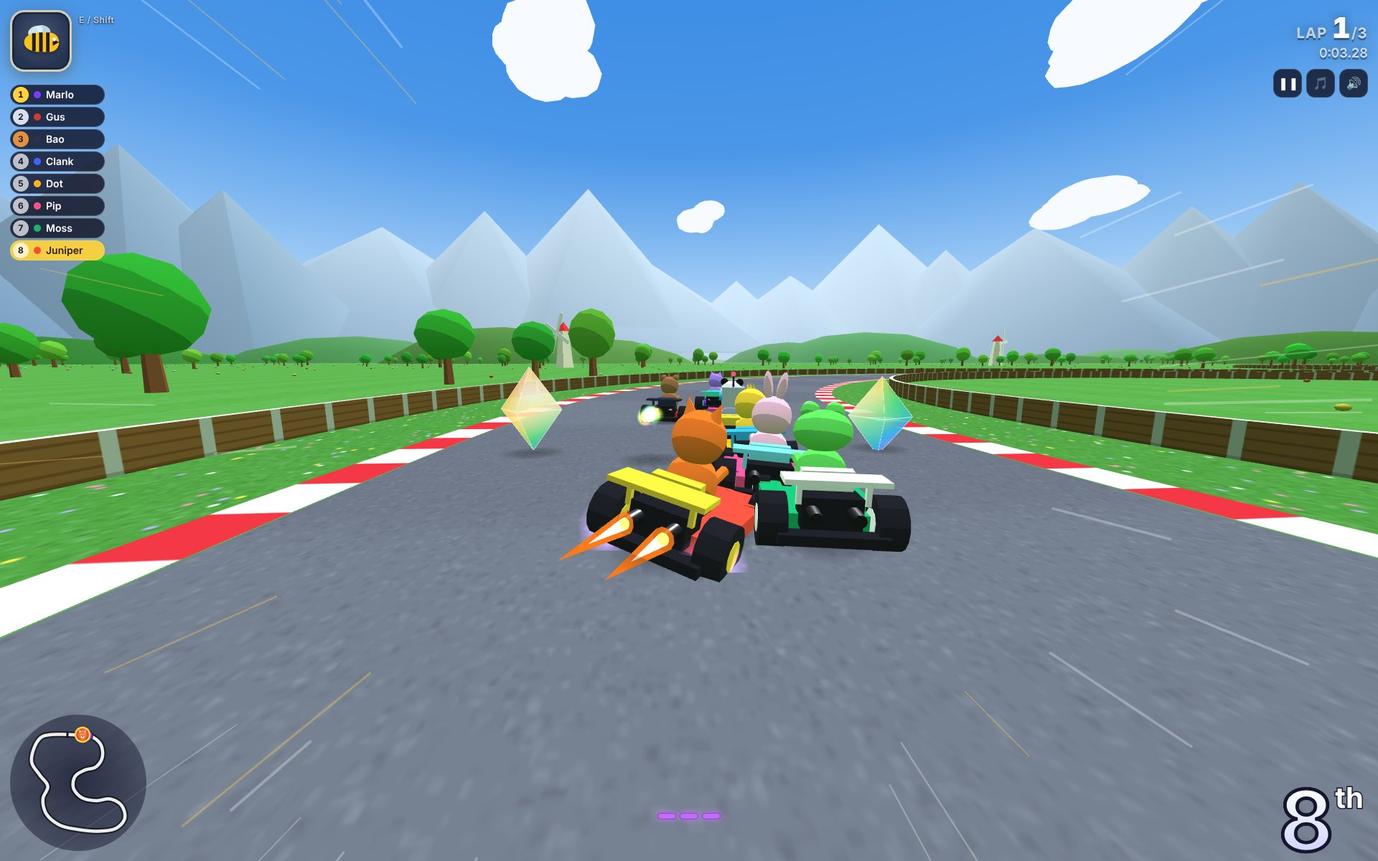
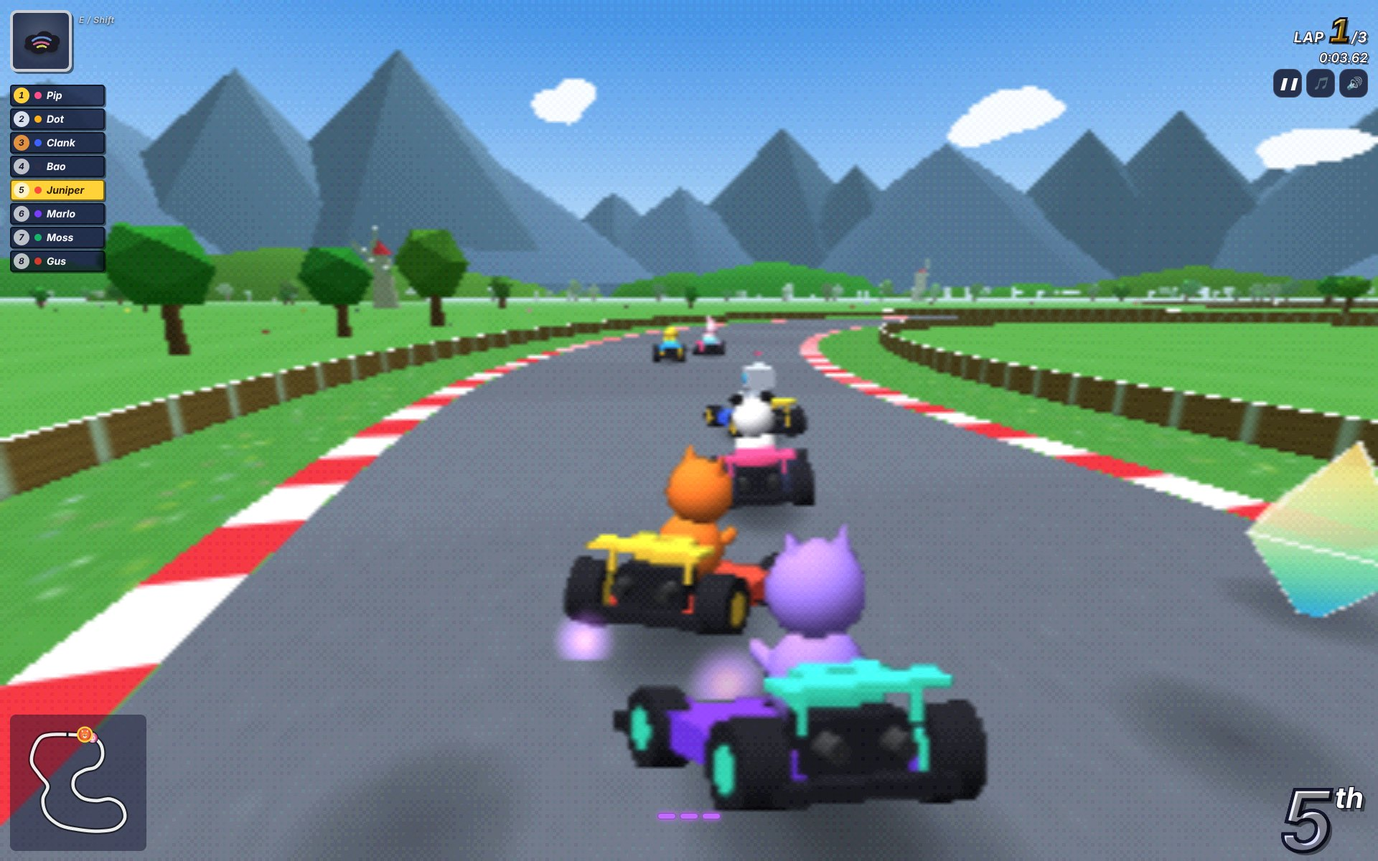
Kartwheel: N64-style graphics
The game now looks like a 1996 console kart racer by default:
- The scene renders at 240 lines into a low-res target, then a final pass
  stretches it to the screen with bilinear blur, a slight horizontal smear
  and 16-bit colour (5 bits a channel) with an ordered dither.
- Karts and racers are pre-rendered sprites: each racer is baked once from
  16 directions with the wheels turned left, straight and right, and the
  frame is picked from the camera angle every frame.
- Flat vertex (Lambert) lighting instead of cel shading, lower-poly trees,
  hills and planets, textures shrunk to a quarter so they smear like N64
  ones, and thick fog that eats the distance (the backdrop stays clear).
- A chunkier, italic HUD with hard drop shadows.
- Menu setting to switch back to the modern full-resolution 3D look
  (saved per browser).
- The ground plane sits lower so the low-res depth buffer never lets it
  show through the road.

Claude-Session: https://claude.ai/code/session_01MQsWw5zq1GURH7SpDxZTZH

diff --git a/e63334287a3deaa3/kartwheel/index.html b/e63334287a3deaa3/kartwheel/index.html
@@ -109,6 +109,17 @@ body.touch #board li:nth-child(n+5):not(.me){display:none}
   #itemKey{display:none}
 }
 
+/* N64 look: a chunkier, flatter HUD to sit over the 240-line picture */
+body.retro #hud{font-style:italic}
+body.retro #board li{border-radius:4px;background:rgba(10,12,40,.72);border:2px solid rgba(0,0,0,.55);box-shadow:2px 2px 0 rgba(0,0,0,.45);font-weight:700}
+body.retro #board li.me{background:#ffd23a}
+body.retro .slot{border-radius:10px;border-width:4px;box-shadow:3px 3px 0 rgba(0,0,0,.5)}
+body.retro #lap,body.retro #time{-webkit-text-stroke:2px #14162e;paint-order:stroke fill;text-shadow:3px 3px 0 rgba(0,0,0,.5);color:#fff}
+body.retro #lap b{font-size:46px;background:linear-gradient(#fff6b0,#ffc21a 60%,#ff8a00);-webkit-background-clip:text;background-clip:text;color:transparent;-webkit-text-stroke:3px #14162e}
+body.retro #placeN,body.retro #placeS,body.retro #count,body.retro #banner{font-style:italic;text-shadow:5px 5px 0 rgba(0,0,0,.45)}
+body.retro #mini{border-radius:8px;background:rgba(10,12,40,.45)}
+body.retro #toasts div{border-radius:4px;border:2px solid rgba(0,0,0,.5);box-shadow:2px 2px 0 rgba(0,0,0,.45)}
+
 /* ---------- Menus ---------- */
 .screen{position:absolute;inset:0;display:flex;align-items:center;justify-content:flex-start;padding:24px clamp(16px,5vw,64px);overflow:auto;background:linear-gradient(90deg,rgba(11,13,30,.9) 0%,rgba(11,13,30,.5) 50%,rgba(11,13,30,0) 76%)}
 .card{width:min(460px,100%);background:var(--panel);border:1px solid var(--line);border-radius:22px;padding:22px 22px 18px;box-shadow:0 30px 80px rgba(0,0,0,.45);margin:auto 0}
@@ -252,6 +263,8 @@ hr.sep{border:0;border-top:1px solid var(--line);margin:16px 0 4px}
         <div><label class="f">Track (single race)</label><div class="seg" id="trackSeg" role="radiogroup" aria-label="Track"></div></div>
         <div><label class="f">Engine</label><div class="seg" id="ccSeg" role="radiogroup" aria-label="Engine class"><button type="button" data-v="50">50cc</button><button type="button" data-v="100">100cc</button><button type="button" data-v="150">150cc</button></div></div>
       </div>
+      <label class="f">Graphics</label>
+      <div class="seg" id="gfxSeg" role="radiogroup" aria-label="Graphics"><button type="button" data-v="n64">N64 (240p, sprites)</button><button type="button" data-v="hd">Modern</button></div>
       <div class="row"><button class="cta" id="gp" type="button">🏆 Grand Prix</button><button class="ghost" id="single" type="button">Single race</button></div>
       <hr class="sep">
       <label class="f">Online</label>
@@ -346,6 +359,9 @@ const store={
   get(k,d){try{const v=localStorage.getItem('kw:'+k);return v==null?d:JSON.parse(v)}catch(e){return d}},
   set(k,v){try{localStorage.setItem('kw:'+k,JSON.stringify(v))}catch(e){}}
 };
+// Graphics: 'n64' (the default) renders at 240 lines with 16-bit colour, vertex lighting, chunky textures,
+// fog and pre-rendered kart sprites, like a 1996 console racer. 'hd' is the clean modern look.
+let retro=store.get('gfx','n64')!=='hd';
 function mulberry(a){return function(){a|=0;a=a+0x6D2B79F5|0;let t=Math.imul(a^a>>>15,1|a);t=t+Math.imul(t^t>>>7,61|t)^t;return((t^t>>>14)>>>0)/4294967296}}
 function strHash(s){let h=2166136261;for(let i=0;i<s.length;i++){h^=s.charCodeAt(i);h=Math.imul(h,16777619)}return h>>>0}
 function cleanName(s){return String(s||'').replace(/[\u0000-\u001f<>]/g,'').trim().slice(0,16)}
@@ -1060,20 +1076,47 @@ const renderer=new THREE.WebGLRenderer({canvas:cv,antialias:!touchUI,powerPrefer
 renderer.setPixelRatio(Math.min(devicePixelRatio||1,touchUI?1.5:1.75));
 // colours are authored as seen on screen, so no colour-space conversion or tone mapping: keeps the cartoon palette bright
 const scene=new THREE.Scene();
-const camera=new THREE.PerspectiveCamera(70,1,.2,9000);
+const camera=new THREE.PerspectiveCamera(70,1,.3,7000);
 const hemi=new THREE.HemisphereLight(0xffffff,0x445533,.85);
 const sun=new THREE.DirectionalLight(0xffffff,1.0);
 scene.add(hemi,sun,sun.target);
 let W=1,H=1,shake=0;
+// N64 output: draw the scene at 240 lines, then stretch it to the screen with bilinear blur, 16-bit colour
+// (5 bits a channel) with an ordered dither, and a slight horizontal smear like the console's video output.
+const LOW_H=240;
+const post={rt:new THREE.WebGLRenderTarget(4,4,{minFilter:THREE.LinearFilter,magFilter:THREE.LinearFilter,depthBuffer:true,stencilBuffer:true}), // stencil gives a 24-bit depth buffer: 16 bits makes the road flicker into the grass
+ scene:new THREE.Scene(),cam:new THREE.OrthographicCamera(-1,1,1,-1,0,1)};
+post.mat=new THREE.ShaderMaterial({uniforms:{tex:{value:post.rt.texture},res:{value:new THREE.Vector2(4,4)}},depthTest:false,depthWrite:false,
+  vertexShader:'varying vec2 vUv;void main(){vUv=uv;gl_Position=vec4(position.xy,0.,1.);}',
+  fragmentShader:[
+    'uniform sampler2D tex;uniform vec2 res;varying vec2 vUv;',
+    'float b2(vec2 p){return 2.*p.x+3.*p.y-4.*p.x*p.y;}',
+    'float bayer(vec2 p){vec2 a=mod(p,2.),b=mod(floor(p/2.),2.);return (4.*b2(a)+b2(b))/16.;}',
+    'void main(){',
+    ' vec2 o=vec2(.5/res.x,0.);',
+    ' vec3 c=texture2D(tex,vUv).rgb*.5+texture2D(tex,vUv+o).rgb*.25+texture2D(tex,vUv-o).rgb*.25;',
+    ' float d=bayer(floor(vUv*res))-.47;',
+    ' c=floor(c*31.+d+.5)/31.;',
+    ' gl_FragColor=vec4(clamp(c,0.,1.),1.);',
+    '}'].join('\n')});
+post.scene.add(new THREE.Mesh(new THREE.PlaneGeometry(2,2),post.mat));
+function sizePost(){const h=LOW_H,w=Math.max(4,Math.round(h*W/H));post.rt.setSize(w,h);post.mat.uniforms.res.value.set(w,h)}
+function renderFrame(){
+  if(!retro){renderer.render(scene,camera);return}
+  renderer.setRenderTarget(post.rt);renderer.render(scene,camera);renderer.setRenderTarget(null);renderer.render(post.scene,post.cam);
+}
 function resize(){
   const r=document.body.getBoundingClientRect();W=Math.max(1,r.width|0);H=Math.max(1,r.height|0);
-  renderer.setSize(W,H,false);camera.aspect=W/H;camera.updateProjectionMatrix();
+  renderer.setSize(W,H,false);camera.aspect=W/H;camera.updateProjectionMatrix();sizePost();
   const d=Math.min(devicePixelRatio||1,2);ov.width=W*d;ov.height=H*d;ox.setTransform(d,0,0,d,0,0);
 }
 addEventListener('resize',resize);
 
-function canvasTex(w,h,draw,rep){
-  const c=document.createElement('canvas');c.width=w;c.height=h;draw(c.getContext('2d'),w,h);
+function canvasTex(w,h,draw,rep,div){
+  let c=document.createElement('canvas');c.width=w;c.height=h;draw(c.getContext('2d'),w,h);
+  // N64 look: textures were tiny and smeared by bilinear filtering, so shrink big ones to a quarter
+  const k=div||(retro&&w>=128&&h>=16?4:1);
+  if(k>1){const d=document.createElement('canvas');d.width=Math.max(8,w/k|0);d.height=Math.max(8,h/k|0);const g2=d.getContext('2d');g2.imageSmoothingQuality='high';g2.drawImage(c,0,0,d.width,d.height);c=d}
   const t=new THREE.CanvasTexture(c);t.wrapS=t.wrapT=THREE.RepeatWrapping;
   t.anisotropy=Math.min(8,renderer.capabilities.getMaxAnisotropy());
   if(rep)t.repeat.set(rep[0],rep[1]);return t;
@@ -1089,7 +1132,8 @@ const STAR_TEX=canvasTex(64,64,(g)=>{g.translate(32,32);g.fillStyle='#ffe14a';g.
 // a 3-step light ramp gives the karts and racers a cartoon look
 const TOON=(()=>{const d=new Uint8Array([90,90,90,255,170,170,170,255,255,255,255,255]);const t=new THREE.DataTexture(d,3,1,THREE.RGBAFormat);t.minFilter=t.magFilter=THREE.NearestFilter;t.generateMipmaps=false;t.needsUpdate=true;return t})();
 const toonMats={};
-function toon(col,emi){const k=col+'|'+(emi||'');if(!toonMats[k]){const m=new THREE.MeshToonMaterial({color:col,gradientMap:TOON});if(emi){m.emissive=new THREE.Color(emi)}m.shared=true;toonMats[k]=m}return toonMats[k]}
+const instMat=()=>retro?new THREE.MeshLambertMaterial({color:0xffffff}):new THREE.MeshToonMaterial({color:0xffffff,gradientMap:TOON});
+function toon(col,emi){const k=(retro?'L':'T')+col+'|'+(emi||'');if(!toonMats[k]){const m=retro?new THREE.MeshLambertMaterial({color:col}):new THREE.MeshToonMaterial({color:col,gradientMap:TOON});if(emi){m.emissive=new THREE.Color(emi)}m.shared=true;toonMats[k]=m}return toonMats[k]}
 function stripeTex(a,b,n){return canvasTex(8,64,(g)=>{for(let i=0;i<n;i++){g.fillStyle=i%2?b:a;g.fillRect(0,i*64/n,8,64/n)}})}
 const TEX={
   checker:canvasTex(64,16,(g)=>{for(let x=0;x<16;x++)for(let y=0;y<4;y++){g.fillStyle=(x+y)%2?'#16161c':'#f6f6f6';g.fillRect(x*4,y*4,4,4)}}),
@@ -1166,7 +1210,7 @@ function buildWorld(ti){
   const [mnx,mxx,mnz,mxz]=T.box,cx=(mnx+mxx)/2,cz=(mnz+mxz)/2,span=Math.max(mxx-mnx,mxz-mnz);
   world.center=[cx,cz];world.span=span;
   // sky, fog, light
-  scene.fog=new THREE.Fog(new THREE.Color(D.fog),D.theme==='nebula'?600:260,D.theme==='nebula'?3200:1900);
+  scene.fog=retro?new THREE.Fog(new THREE.Color(D.fog),D.theme==='nebula'?320:110,D.theme==='nebula'?1700:640):new THREE.Fog(new THREE.Color(D.fog),D.theme==='nebula'?600:260,D.theme==='nebula'?3200:1900);
   scene.background=new THREE.Color(D.sky[1]);
   const skyG=new THREE.SphereGeometry(5000,32,16),top=new THREE.Color(D.sky[0]),hor=new THREE.Color(D.sky[1]),cols=[];
   const sp=skyG.attributes.position;for(let i=0;i<sp.count;i++){const y=sp.getY(i)/5000,c=hor.clone().lerp(top,clamp(y*2.4,0,1));cols.push(c.r,c.g,c.b)}
@@ -1184,7 +1228,7 @@ function buildWorld(ti){
     const gt=canvasTex(256,256,(gg,w,h)=>{noise(gg,w,h,D.ground,D.theme==='ember'?.1:.06,7000);if(D.theme==='meadow'){gg.fillStyle='rgba(255,255,255,.04)';for(let i=0;i<4;i++)gg.fillRect(0,i*64,w,32)}if(D.theme==='ember'){gg.strokeStyle='rgba(255,90,20,.18)';gg.lineWidth=2;for(let i=0;i<14;i++){gg.beginPath();let x=Math.random()*w,y=Math.random()*h;gg.moveTo(x,y);for(let k=0;k<5;k++){x+=rand(-30,30);y+=rand(-30,30);gg.lineTo(x,y)}gg.stroke()}}});
     gt.repeat.set(gw/40,gw/40);
     const ground=new THREE.Mesh(D.theme==='cove'?new THREE.CircleGeometry(span/2+380,64):new THREE.PlaneGeometry(gw,gw),new THREE.MeshLambertMaterial({map:gt}));
-    ground.rotation.x=-Math.PI/2;ground.position.set(cx,-.06,cz);g.add(ground);
+    ground.rotation.x=-Math.PI/2;ground.position.set(cx,-.4,cz);g.add(ground); // well below the track, so low-precision depth never lets it show through
     if(D.theme==='cove'){
       const sea=new THREE.Mesh(new THREE.PlaneGeometry(gw*2,gw*2),new THREE.MeshLambertMaterial({color:0x1fa3d6}));sea.rotation.x=-Math.PI/2;sea.position.set(cx,-.5,cz);g.add(sea);
       const shore=new THREE.Mesh(new THREE.RingGeometry(span/2+370,span/2+420,64),new THREE.MeshBasicMaterial({color:0xbff3ff,transparent:true,opacity:.7}));shore.rotation.x=-Math.PI/2;shore.position.set(cx,-.3,cz);g.add(shore);world.anim.push(t=>{shore.material.opacity=.45+.3*Math.sin(t*1.3)});
@@ -1234,7 +1278,7 @@ function buildWorld(ti){
     const lt=canvasTex(128,128,(gg,w,h)=>{const gr=gg.createLinearGradient(0,0,w,h);gr.addColorStop(0,'#ff4a12');gr.addColorStop(.5,'#ffb21a');gr.addColorStop(1,'#ff3a0a');gg.fillStyle=gr;gg.fillRect(0,0,w,h);gg.strokeStyle='rgba(120,20,0,.55)';gg.lineWidth=5;for(let i=0;i<10;i++){gg.beginPath();gg.moveTo(Math.random()*w,Math.random()*h);gg.bezierCurveTo(Math.random()*w,Math.random()*h,Math.random()*w,Math.random()*h,Math.random()*w,Math.random()*h);gg.stroke()}});
     const lm=new THREE.MeshBasicMaterial({map:lt});
     for(const sg of [-1,1])g.add(new THREE.Mesh(ribbon(T,sg>0?LAVA_EDGE:-70,sg>0?70:-LAVA_EDGE,-.25,14,i=>!T.WL[i]),lm));
-    g.add(new THREE.Mesh(ribbon(T,-WALL-.2,WALL+.2,-.6,10,inGap),lm));
+    g.add(new THREE.Mesh(ribbon(T,-WALL-.2,WALL+.2,-.3,10,inGap),lm));
     world.anim.push(t=>{lt.offset.set(t*.02,t*.05)});
     // pools of lava out in the rock
     for(let k=0;k<26;k++){const x=lerp(mnx-300,mxx+300,rng()),z=lerp(mnz-300,mxz+300,rng());if(distTrack(T,x,z)<WALL+40)continue;const r=12+rng()*40;const pool=new THREE.Mesh(new THREE.CircleGeometry(r,20),lm);pool.rotation.x=-Math.PI/2;pool.position.set(x,.02,z);pool.scale.set(1,.6+rng()*.6,1);g.add(pool)}
@@ -1291,7 +1335,7 @@ function buildWorld(ti){
     const pc=D.theme==='nebula'?new THREE.MeshBasicMaterial({color:0x3df5ff}):toon(D.theme==='ember'?'#3b3236':'#f6f6f6');
     const w2=WALL+(th.wall==='none'?-3:.8);
     for(const s of [-1,1]){const post=new THREE.Mesh(new THREE.CylinderGeometry(.55,.7,8,12),pc);post.position.set(0,4,s*w2);arch.add(post)}
-    const bt=canvasTex(1024,128,(gg,w,h)=>{gg.fillStyle=D.theme==='nebula'?'#1a1240':'#1d1d2e';gg.fillRect(0,0,w,h);for(let x=0;x<w;x+=32){gg.fillStyle=(x/32)%2?'#f6f6f6':'#16161c';gg.fillRect(x,0,32,14);gg.fillStyle=(x/32)%2?'#16161c':'#f6f6f6';gg.fillRect(x,h-14,32,14)}gg.font='700 78px Fredoka, Arial, sans-serif';gg.textAlign='center';gg.textBaseline='middle';const gr=gg.createLinearGradient(0,0,w,0);gr.addColorStop(0,'#ffd23a');gr.addColorStop(1,'#ff4f8b');gg.fillStyle=gr;gg.fillText('KARTWHEEL',w/2,h/2+4)});
+    const bt=canvasTex(1024,128,(gg,w,h)=>{gg.fillStyle=D.theme==='nebula'?'#1a1240':'#1d1d2e';gg.fillRect(0,0,w,h);for(let x=0;x<w;x+=32){gg.fillStyle=(x/32)%2?'#f6f6f6':'#16161c';gg.fillRect(x,0,32,14);gg.fillStyle=(x/32)%2?'#16161c':'#f6f6f6';gg.fillRect(x,h-14,32,14)}gg.font='700 78px Fredoka, Arial, sans-serif';gg.textAlign='center';gg.textBaseline='middle';const gr=gg.createLinearGradient(0,0,w,0);gr.addColorStop(0,'#ffd23a');gr.addColorStop(1,'#ff4f8b');gg.fillStyle=gr;gg.fillText('KARTWHEEL',w/2,h/2+4)},null,retro?2:1);
     bt.wrapS=THREE.ClampToEdgeWrapping;
     const bm=new THREE.MeshLambertMaterial({map:bt});const ban=new THREE.Mesh(new THREE.BoxGeometry(1,2.6,w2*2+1.2),[bm,bm,pc,pc,pc,pc]);ban.position.set(0,8,0);arch.add(ban);
     g.add(arch);
@@ -1329,12 +1373,12 @@ function buildScenery(g,T,D,rng,box,cx,cz,span){
   }
   if(D.theme==='meadow'){
     // round trees, hedges, flowers, windmills, soft hills, clouds
-    const n=420,trunk=new THREE.InstancedMesh(new THREE.CylinderGeometry(.4,.55,3,6),toon('#7a4b2a'),n),crown=new THREE.InstancedMesh(new THREE.IcosahedronGeometry(3,1),new THREE.MeshToonMaterial({color:0xffffff,gradientMap:TOON}),n);
+    const n=420,trunk=new THREE.InstancedMesh(new THREE.CylinderGeometry(.4,.55,3,6),toon('#7a4b2a'),n),crown=new THREE.InstancedMesh(new THREE.IcosahedronGeometry(3,retro?0:1),instMat(),n);
     const c=scatter(n,WALL+6,(x,z,k)=>{const s=.7+rng()*.8;mm.compose(ps.set(x,1.5*s,z),q.identity(),sc.set(s,s,s));trunk.setMatrixAt(k,mm);mm.compose(ps.set(x,(3+2.4)*s,z),q.setFromAxisAngle(Y,rng()*6),sc.set(s,s*(.85+rng()*.3),s));crown.setMatrixAt(k,mm);col.setHSL(.26+rng()*.08,.55,.36+rng()*.12);crown.setColorAt(k,col)});
     trunk.count=crown.count=c;g.add(trunk,crown);
     const fl=new THREE.InstancedMesh(new THREE.SphereGeometry(.35,6,4),new THREE.MeshLambertMaterial({color:0xffffff}),1400);
     const fc=scatter(1400,WALL+1.5,(x,z,k)=>{mm.compose(ps.set(x,.25,z),q.identity(),sc.set(1,.6,1));fl.setMatrixAt(k,mm);col.set(['#ffffff','#ffe14a','#ff8ab8','#b9a7ff','#ff6b5e'][(rng()*5)|0]);fl.setColorAt(k,col)});fl.count=fc;g.add(fl);
-    const hills=new THREE.InstancedMesh(new THREE.SphereGeometry(1,20,12),new THREE.MeshLambertMaterial({color:0xffffff}),40);
+    const hills=new THREE.InstancedMesh(new THREE.SphereGeometry(1,retro?10:20,retro?6:12),new THREE.MeshLambertMaterial({color:0xffffff,fog:!retro}),40);
     for(let i=0;i<40;i++){const a=i/40*TAU,r=span/2+600+rng()*500,s=180+rng()*260;mm.compose(ps.set(cx+Math.cos(a)*r,-s*.55,cz+Math.sin(a)*r),q.identity(),sc.set(s,s*(.55+rng()*.25),s));hills.setMatrixAt(i,mm);col.setHSL(.27+rng()*.06,.45,.32+rng()*.1);hills.setColorAt(i,col)}
     g.add(hills);
     for(let k=0;k<4;k++){
@@ -1371,12 +1415,12 @@ function buildScenery(g,T,D,rng,box,cx,cz,span){
   }else if(D.theme==='ember'){
     // the volcano, jagged rocks, drifting embers
     const vx=cx+span*.15,vz=cz-span/2-520;
-    const vol=new THREE.Mesh(new THREE.CylinderGeometry(70,420,360,24,1,true),toon('#2a1f22'));vol.position.set(vx,180,vz);g.add(vol);
-    const crater=new THREE.Mesh(new THREE.CircleGeometry(70,24),new THREE.MeshBasicMaterial({color:0xff6a1a}));crater.rotation.x=-Math.PI/2;crater.position.set(vx,359,vz);g.add(crater);
+    const vol=new THREE.Mesh(new THREE.CylinderGeometry(70,420,360,24,1,true),new THREE.MeshLambertMaterial({color:'#2a1f22',fog:!retro}));vol.position.set(vx,180,vz);g.add(vol);
+    const crater=new THREE.Mesh(new THREE.CircleGeometry(70,24),new THREE.MeshBasicMaterial({color:0xff6a1a,fog:!retro}));crater.rotation.x=-Math.PI/2;crater.position.set(vx,359,vz);g.add(crater);
     const glow=new THREE.Sprite(new THREE.SpriteMaterial({map:GLOW_TEX,color:0xff5a1a,transparent:true,opacity:.75,depthWrite:false,blending:THREE.AdditiveBlending,fog:false}));glow.scale.set(520,300,1);glow.position.set(vx,390,vz);g.add(glow);
-    for(let k=0;k<4;k++){const flow=new THREE.Mesh(new THREE.PlaneGeometry(16,300),new THREE.MeshBasicMaterial({color:0xff5a12}));const a=-.6+k*.4;flow.position.set(vx+Math.sin(a)*240,180,vz+Math.cos(a)*240);flow.lookAt(vx,180,vz);flow.rotateX(-.95);g.add(flow)}
+    for(let k=0;k<4;k++){const flow=new THREE.Mesh(new THREE.PlaneGeometry(16,300),new THREE.MeshBasicMaterial({color:0xff5a12,fog:!retro}));const a=-.6+k*.4;flow.position.set(vx+Math.sin(a)*240,180,vz+Math.cos(a)*240);flow.lookAt(vx,180,vz);flow.rotateX(-.95);g.add(flow)}
     world.anim.push(t=>{glow.material.opacity=.6+.15*Math.sin(t*2.3)});
-    const rk=new THREE.InstancedMesh(new THREE.ConeGeometry(1,1,5),new THREE.MeshToonMaterial({color:0xffffff,gradientMap:TOON}),260);
+    const rk=new THREE.InstancedMesh(new THREE.ConeGeometry(1,1,5),instMat(),260);
     const rc=scatter(260,WALL+5,(x,z,k)=>{const s=2+rng()*7;mm.compose(ps.set(x,s*.9,z),q.setFromAxisAngle(Y,rng()*TAU),sc.set(s,s*(1.2+rng()*1.8),s));rk.setMatrixAt(k,mm);col.setHSL(.02,.12,.12+rng()*.1);rk.setColorAt(k,col)});rk.count=rc;g.add(rk);
     const em=new THREE.BufferGeometry(),ep=[];for(let i=0;i<900;i++)ep.push(lerp(mnx-200,mxx+200,Math.random()),Math.random()*60,lerp(mnz-200,mxz+200,Math.random()));
     em.setAttribute('position',new THREE.Float32BufferAttribute(ep,3));
@@ -1390,7 +1434,7 @@ function buildScenery(g,T,D,rng,box,cx,cz,span){
     g.add(new THREE.Points(sg,new THREE.PointsMaterial({size:7,vertexColors:true,fog:false,sizeAttenuation:true,depthWrite:false})));
     for(let k=0;k<7;k++){const neb=new THREE.Sprite(new THREE.SpriteMaterial({map:GLOW_TEX,color:new THREE.Color().setHSL(.72+k*.06,.8,.5),transparent:true,opacity:.35,depthWrite:false,blending:THREE.AdditiveBlending,fog:false}));const a=k*.9;neb.position.set(cx+Math.cos(a)*2400,300+k*90,cz+Math.sin(a)*2400);neb.scale.set(1600,900,1);g.add(neb)}
     const pl=[['#ff8a5c',160,[1,.6]],['#5ce1ff',90,[-1,.3]],['#c46bff',240,[.2,-1]]];
-    pl.forEach(([c,r,[ax,az]],k)=>{const m=new THREE.Mesh(new THREE.SphereGeometry(r,32,20),new THREE.MeshLambertMaterial({color:c,emissive:new THREE.Color(c).multiplyScalar(.25)}));m.position.set(cx+ax*1500,200+k*160,cz+az*1500);g.add(m);if(k!==1){const ring=new THREE.Mesh(new THREE.RingGeometry(r*1.4,r*2.1,48),new THREE.MeshBasicMaterial({color:0xffe1b0,transparent:true,opacity:.45,side:THREE.DoubleSide}));ring.position.copy(m.position);ring.rotation.set(1.2,.3,0);g.add(ring)}});
+    pl.forEach(([c,r,[ax,az]],k)=>{const m=new THREE.Mesh(new THREE.SphereGeometry(r,retro?14:32,retro?10:20),new THREE.MeshLambertMaterial({color:c,emissive:new THREE.Color(c).multiplyScalar(.25),fog:!retro}));m.position.set(cx+ax*1500,200+k*160,cz+az*1500);g.add(m);if(k!==1){const ring=new THREE.Mesh(new THREE.RingGeometry(r*1.4,r*2.1,48),new THREE.MeshBasicMaterial({color:0xffe1b0,transparent:true,opacity:.45,side:THREE.DoubleSide,fog:!retro}));ring.position.copy(m.position);ring.rotation.set(1.2,.3,0);g.add(ring)}});
     const ast=new THREE.InstancedMesh(new THREE.DodecahedronGeometry(1,0),toon('#5b5470'),160);
     const asts=[];
     for(let i=0;i<160;i++){let x,z,t=0;do{x=lerp(area[0],area[1],rng());z=lerp(area[2],area[3],rng());t++}while(!far(x,z,40)&&t<50);const s=2+rng()*9;asts.push({x,y:-30+rng()*80,z,s,r:rng()*6,v:rng()*.4})}
@@ -1401,7 +1445,7 @@ function buildScenery(g,T,D,rng,box,cx,cz,span){
   }
   // distant mountains all round (not in space or at sea)
   if(D.theme==='meadow'||D.theme==='ember'){
-    const n=60,mt=new THREE.InstancedMesh(new THREE.ConeGeometry(1,1,7),new THREE.MeshLambertMaterial({color:new THREE.Color(D.theme==='ember'?'#3a2226':'#6f8fb0')}),n);
+    const n=60,mt=new THREE.InstancedMesh(new THREE.ConeGeometry(1,1,7),new THREE.MeshLambertMaterial({color:new THREE.Color(D.theme==='ember'?'#3a2226':'#6f8fb0'),fog:!retro}),n);
     const R=span/2+1500;
     for(let i=0;i<n;i++){const a=i/n*TAU+rng()*.05,r=R+rng()*400,s=260+rng()*420;mm.compose(ps.set(cx+Math.cos(a)*r,s*.35,cz+Math.sin(a)*r),q.identity(),sc.set(s,s*(.6+rng()*.6),s));mt.setMatrixAt(i,mm)}
     g.add(mt);
@@ -1465,20 +1509,59 @@ function makeHead(ch){
   else if(ch.k==='chick'){C(.11,.3,c2,.48,-.06,0,0,-Math.PI/2);eyes(.3,.1,.15,.085);for(let k=-1;k<=1;k++)C(.05,.22,c,0,.46,k*.07,0,k*.3)}
   return h;
 }
-function makeKartMesh(c){
-  const ch=c.ch,g=new THREE.Group(),body=new THREE.Group();g.add(body);
-  body.add(new THREE.Mesh(KG.body,toon(ch.kart)),new THREE.Mesh(KG.trim,toon(ch.trim)),new THREE.Mesh(KG.dark,KM.dark),new THREE.Mesh(KG.metal,KM.metal));
-  const sw=new THREE.Mesh(KG.sw,KM.dark);sw.position.set(.18,1.02,0);body.add(sw);
-  // the racer
-  const rider=new THREE.Group();rider.position.set(-.3,0,0);body.add(rider);
+// The kart and its racer as a 3D model (used directly in the modern look, or baked into sprites).
+function kartModel(ch){
+  const body=new THREE.Group(),parts=[];
+  const add=o=>{body.add(o);parts.push(o);return o};
+  add(new THREE.Mesh(KG.body,toon(ch.kart)));add(new THREE.Mesh(KG.trim,toon(ch.trim)));add(new THREE.Mesh(KG.dark,KM.dark));add(new THREE.Mesh(KG.metal,KM.metal));
+  const sw=add(new THREE.Mesh(KG.sw,KM.dark));sw.position.set(.18,1.02,0);
+  const rider=add(new THREE.Group());rider.position.set(-.3,0,0);
   const torso=new THREE.Mesh(new THREE.SphereGeometry(.42,14,10),toon(ch.k==='robot'?'#8792a3':ch.c));torso.scale.set(.95,1.1,1);torso.position.set(0,.98,0);rider.add(torso);
   for(const s of [-1,1]){const arm=new THREE.Mesh(new THREE.CylinderGeometry(.09,.09,.62,8),toon(ch.c));arm.position.set(.25,1.05,s*.28);arm.rotation.set(s*.25,0,-1.25);rider.add(arm)}
   const head=makeHead(ch);head.position.set(.02,1.7,0);rider.add(head);
   const wheels=[],pivots=[];
   for(const [x,z,front] of [[1.05,.82,1],[1.05,-.82,1],[-.95,.86,0],[-.95,-.86,0]]){
-    const piv=new THREE.Group();piv.position.set(x,front?.34:.42,z);
+    const piv=add(new THREE.Group());piv.position.set(x,front?.34:.42,z);
     const w=new THREE.Group();w.add(new THREE.Mesh(front?KG.wheelF:KG.wheelR,KM.tyre),new THREE.Mesh(front?KG.hubF:KG.hubR,toon(ch.trim)));
-    piv.add(w);body.add(piv);wheels.push(w);if(front)pivots.push(piv);
+    piv.add(w);wheels.push(w);if(front)pivots.push(piv);
+  }
+  return {body,parts,wheels,pivots,rider,head};
+}
+// N64-style sprites: each racer pre-rendered from 16 directions with the wheels turned left, straight and right,
+// the way 1990s kart racers drew their drivers. Baked once per racer into one texture.
+const SPR={az:16,sv:3,px:96,size:3.8,atlas:{}};
+function bakeSprites(seat){
+  if(SPR.atlas[seat])return SPR.atlas[seat];
+  const {az,sv,px}=SPR,ch=CHARS[seat],sc=new THREE.Scene(),mdl=kartModel(ch);sc.add(mdl.body);
+  sc.add(new THREE.HemisphereLight(0xffffff,0x707080,.72));const dl=new THREE.DirectionalLight(0xffffff,.7);sc.add(dl,dl.target);
+  const h=SPR.size/2,cam=new THREE.OrthographicCamera(-h,h,h,-h,.1,60);
+  const rt=new THREE.WebGLRenderTarget(px,px);
+  const atlas=document.createElement('canvas');atlas.width=px*az;atlas.height=px*sv;const g=atlas.getContext('2d');
+  const buf=new Uint8Array(px*px*4),img=g.createImageData(px,px);
+  const prevT=renderer.getRenderTarget(),prevC=renderer.getClearColor(new THREE.Color()),prevA=renderer.getClearAlpha();
+  renderer.setClearColor(0x000000,0);
+  for(let v=0;v<sv;v++){
+    const st=v-1;for(const p of mdl.pivots)p.rotation.y=-st*.42;mdl.rider.rotation.x=st*.14;mdl.head.rotation.y=-st*.25;
+    for(let k=0;k<az;k++){
+      const a=k/az*TAU,el=.22,d=14;
+      cam.position.set(Math.cos(a)*Math.cos(el)*d,.95+Math.sin(el)*d,Math.sin(a)*Math.cos(el)*d);cam.lookAt(0,.95,0);
+      dl.position.set(cam.position.x*.6-Math.sin(a)*4,10,cam.position.z*.6+Math.cos(a)*4);
+      renderer.setRenderTarget(rt);renderer.clear();renderer.render(sc,cam);
+      renderer.readRenderTargetPixels(rt,0,0,px,px,buf);
+      for(let y=0;y<px;y++)img.data.set(buf.subarray((px-1-y)*px*4,(px-y)*px*4),y*px*4);
+      g.putImageData(img,k*px,v*px);
+    }
+  }
+  renderer.setRenderTarget(prevT);renderer.setClearColor(prevC,prevA);rt.dispose();
+  const tex=new THREE.CanvasTexture(atlas);tex.minFilter=THREE.LinearFilter;tex.generateMipmaps=false;tex.repeat.set(1/az,1/sv);tex.shared=true;
+  SPR.atlas[seat]=tex;return tex;
+}
+function makeKartMesh(c){
+  const ch=c.ch,g=new THREE.Group(),mdl=kartModel(ch),body=mdl.body;g.add(body);
+  let spr=null;
+  if(retro){
+    for(const o of mdl.parts)o.visible=false;
+    spr=new THREE.Sprite(new THREE.SpriteMaterial({map:bakeSprites(c.seat),alphaTest:.5}));spr.scale.set(SPR.size,SPR.size,1);spr.position.y=1.12;g.add(spr);
   }
   const flames=[];for(const z of [.3,-.3]){const f=new THREE.Group();f.position.set(-1.55,.62,z);const a=new THREE.Mesh(KG.flame,KM.flameA),b=new THREE.Mesh(KG.flame,KM.flameB);b.scale.set(.6,.55,.55);f.add(a,b);f.visible=false;body.add(f);flames.push(f)}
   const sparks=[];for(const z of [.86,-.86]){const sp=new THREE.Sprite(new THREE.SpriteMaterial({map:GLOW_TEX,color:0xffffff,transparent:true,depthWrite:false,blending:THREE.AdditiveBlending}));sp.position.set(-1.1,.2,z);sp.visible=false;body.add(sp);sparks.push(sp)}
@@ -1486,7 +1569,7 @@ function makeKartMesh(c){
   const bubble=new THREE.Mesh(KG.bubble,KM.bubble);bubble.position.y=.9;bubble.visible=false;g.add(bubble);
   const aura=new THREE.Sprite(new THREE.SpriteMaterial({map:GLOW_TEX,color:0xffffff,transparent:true,opacity:.8,depthWrite:false,blending:THREE.AdditiveBlending}));aura.scale.set(5,5,1);aura.position.y=.9;aura.visible=false;g.add(aura);
   const stars=new THREE.Group();stars.position.y=2.6;stars.visible=false;for(let k=0;k<3;k++){const s=new THREE.Sprite(new THREE.SpriteMaterial({map:STAR_TEX,transparent:true,depthWrite:false}));s.scale.set(.55,.55,1);stars.add(s)}g.add(stars);
-  return {g,body,wheels,pivots,flames,sparks,shadow:sh,bubble,aura,stars,head};
+  return {g,body,wheels:mdl.wheels,pivots:mdl.pivots,flames,sparks,shadow:sh,bubble,aura,stars,head:mdl.head,spr};
 }
 let kartMeshes=[];
 function buildKarts(){
@@ -1514,6 +1597,13 @@ function syncKarts(dt,time){
     m.body.rotation.set(c.trick?vis.flip:vis.lean,0,pitch);
     m.body.position.y=(c.revving&&raceT()<0?Math.sin(time*60)*.02:0)+(c.ground?Math.sin(time*25+c.seat)*.012*Math.min(1,Math.abs(c.v)/10):0);
     if(fall&&track.def.theme==='ember')m.body.position.y-=(1.5-c.fallT)*.6;
+    if(m.spr){ // pick the pre-rendered frame for the angle we're seeing this kart from
+      const cp=camera.position,hv=c.h+vis.yaw+vis.spinA,ang=Math.atan2(cp.z-c.z,cp.x-c.x)-hv;
+      const k=((Math.round(ang/TAU*SPR.az)%SPR.az)+SPR.az)%SPR.az,st=c.drift||c.steer,v=st<-.3?0:st>.3?2:1;
+      m.spr.material.map.offset.set(k/SPR.az,1-(v+1)/SPR.sv);
+      m.spr.material.rotation=c.trick||c.tumbleT>0?vis.flip:-vis.lean*.8;
+      m.spr.position.y=1.12+m.body.position.y;
+    }
     c.spin=(c.spin+c.v*dt/.4)%TAU;
     for(const w of m.wheels)w.rotation.z=-c.spin;
     for(const p of m.pivots)p.rotation.y=-clamp(c.steer,-1,1)*.4;
@@ -2516,6 +2606,14 @@ TRACKS.forEach((t,i)=>{for(const id of ['trackSeg','lbTrack']){const b=document.
 lobbyOpt($('lbTrack'),'track');lobbyOpt($('lbCc'),'cc');
 function menuSeg(id,key){$(id).addEventListener('click',e=>{const b=e.target.closest('button[data-v]');if(!b)return;const v=b.dataset.v|0;prefs[key]=v;store.set(key,v);segSet($(id),v);if(key==='track'&&state==='menu')setupAttract(v)})}
 menuSeg('trackSeg','track');menuSeg('ccSeg','cc');
+// switching looks rebuilds the track and karts with the other materials
+function setGraphics(v){
+  retro=v!=='hd';store.set('gfx',retro?'n64':'hd');segSet($('gfxSeg'),retro?'n64':'hd');
+  for(const k in toonMats)delete toonMats[k];
+  if(race){worldTrack=-1;setTrack(race.track);buildKarts();clearItemMeshes();for(const o of race.proj.concat(race.haz))o.mesh=null}
+  sizePost();document.body.classList.toggle('retro',retro);
+}
+$('gfxSeg').addEventListener('click',e=>{const b=e.target.closest('button[data-v]');if(b)setGraphics(b.dataset.v)});
 function renderChars(){
   const box=$('chars');
   if(!box.children.length)CHARS.forEach((ch,s)=>{const b=document.createElement('button');b.type='button';b.dataset.s=s;b.setAttribute('role','radio');b.appendChild(portraitCanvas(s,104));const n=document.createElement('span');n.textContent=ch.n;b.appendChild(n);box.appendChild(b)});
@@ -2635,7 +2733,7 @@ function frame(now){
     if(state==='lobby'&&(lobbyT<=0||lobbyDirty)){lobbyT=.25;lobbyDirty=false;renderLobby()}
     if(state==='results'&&mode==='online'&&Net.round&&Net.round.ph==='done'){const s=Math.max(0,Math.ceil(((+Net.round.end||0)+RESULTS_MS-Net.now())/1000));$('resNext').textContent='Back to the lobby in '+s+'s'}
     if(race){updateCamera(dt);syncKarts(dt,clock);syncItems(dt,clock);hideNearCamera()}
-    renderer.render(scene,camera);
+    renderFrame();
     updateHud(dt);drawOverlay();
     if(state==='race')drawMini();
     engineSound(state==='race'?camTarget():null);
@@ -2648,7 +2746,7 @@ function frame(now){
 resize();
 $('name').value=myName;
 $('room').value=store.get('room','')||'';
-segSet($('trackSeg'),prefs.track);segSet($('ccSeg'),prefs.cc);
+segSet($('trackSeg'),prefs.track);segSet($('ccSeg'),prefs.cc);segSet($('gfxSeg'),retro?'n64':'hd');document.body.classList.toggle('retro',retro);
 renderChars();
 setMuted(muted);$('music').style.opacity=prefs.music?1:.45;
 document.body.classList.toggle('touch',touchUI);

diff --git a/e63334287a3deaa3/index.html b/e63334287a3deaa3/index.html
@@ -25,11 +25,11 @@
     <div class="stack">
     <article class="project">
       <a class="shot" href="/e63334287a3deaa3/kartwheel/" aria-label="Open Kartwheel">
-        <img src="/e63334287a3deaa3/kartwheel/preview.jpg" alt="Kartwheel in play: a fox in an orange kart boosts with flames from its exhausts through a pack of karts driven by a frog, a bunny, a chick and a bear on a grassy circuit with wooden fences and red and white kerbs, rainbow item gems floating over the road, windmills and snowy mountains behind, and the item slot, standings, lap counter, place and track map on screen." width="1920" height="1200" loading="lazy" style="object-position:50% 60%">
+        <img src="/e63334287a3deaa3/kartwheel/preview.jpg" alt="Kartwheel in play, drawn in a blocky, softly blurred 1990s console style: a fox in a red and yellow kart follows a panda and a robot down a grassy circuit with wooden fences and red and white kerbs while a purple cat in a teal kart drifts alongside, a rainbow item gem floating at the roadside, low-poly trees, windmills and grey mountains behind, and the item slot, standings, lap counter, place and track map on screen." width="1920" height="1200" loading="lazy" style="object-position:50% 55%">
       </a>
       <div class="body">
         <h3>Kartwheel</h3>
-        <p>A 3D kart racer with eight cartoon animal racers. Hop into a drift and hold it through the turn until the sparks go blue, orange, then purple for a bigger boost, smash item gems for something to throw, and race for the cup over four tracks.</p>
+        <p>A 3D kart racer with eight cartoon animal racers, drawn like a 1996 console game. Hop into a drift and hold it through the turn until the sparks go blue, orange, then purple for a bigger boost, smash item gems for something to throw, and race for the cup over four tracks.</p>
         <ul class="tags" aria-label="Built with">
           <li>JavaScript</li><li>Three.js</li><li>Firebase Realtime Database</li><li>Web Audio</li>
         </ul>
@@ -39,6 +39,7 @@
           <li>Four tracks: Meadow Loop, Coral Cove, Ember Peak with lava on the hairpins and a jump over the flow, and Nebula Run, which has no walls</li>
           <li>A four-race Grand Prix with points and a trophy, or single races at 50cc, 100cc or 150cc</li>
           <li>Online rooms for up to 8 racers: pick a racer, and bots drive every kart nobody picked. Quick race drops you into a public lobby, or pick a room code and send friends the invite link</li>
+          <li>N64-style graphics: a 240-line picture with 16-bit colour, chunky blurred textures, thick fog and pre-rendered kart sprites. A Modern setting switches to clean full-resolution 3D</li>
           <li>Eight racers in three weight classes, a synth soundtrack for each track, and keyboard, gamepad or touch controls</li>
         </ul>
         <div class="actions">
